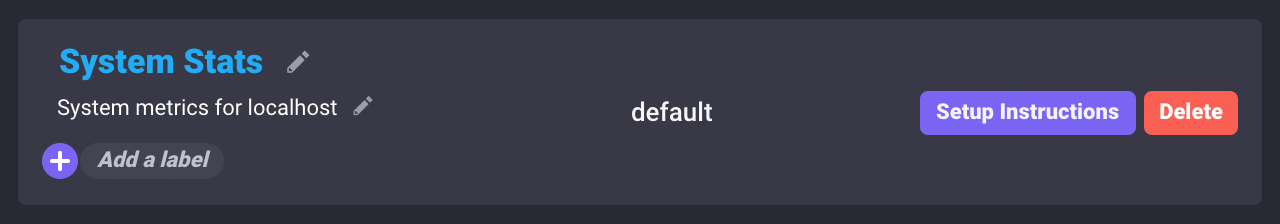
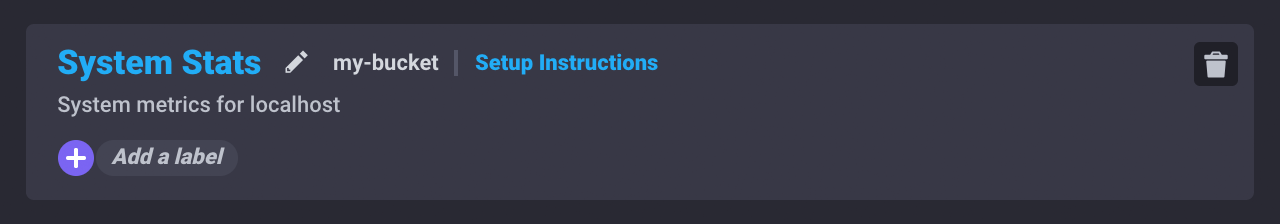
updated telegraf config images for alpha-9, resolves #177

diff --git a/content/v2.0/collect-data/use-telegraf/auto-config/delete-telegraf-config.md b/content/v2.0/collect-data/use-telegraf/auto-config/delete-telegraf-config.md
@@ -15,8 +15,8 @@ To delete a Telegraf configuration:
     {{< nav-icon "settings" >}}
 
 2. Click the **Telegraf** tab.
-3. Hover over the configuration you want to delete and click **Delete** on the far right.
-4. Click **Confirm**.
+3. Hover over the configuration you want to delete, click the **{{< icon "trash" >}}**
+   icon, and **Delete**.
 
     {{< img-hd src="/img/2-0-telegraf-config-delete.png" />}}
 

diff --git a/content/v2.0/collect-data/use-telegraf/auto-config/view-telegraf-config.md b/content/v2.0/collect-data/use-telegraf/auto-config/view-telegraf-config.md
@@ -17,10 +17,6 @@ View Telegraf configuration information in the InfluxDB user interface (UI):
     {{< nav-icon "settings" >}}
 
 2. Click the **Telegraf** tab.
-3. Hover over a configuration to view options.
-
-    {{< img-hd src="/img/2-0-telegraf-config-view.png" />}}
-
 
 ### View and download the telegraf.conf
 To view the actual `telegraf.conf` associated with the configuration,
